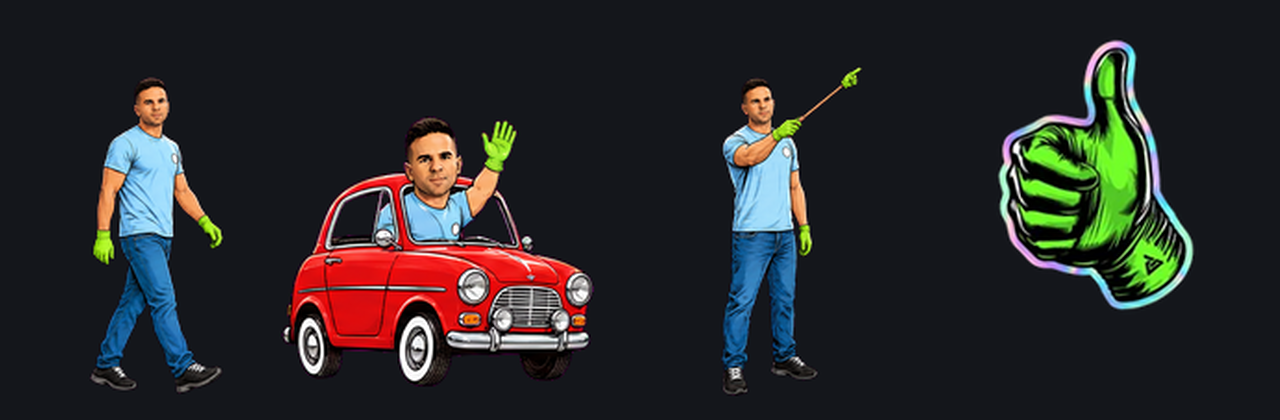
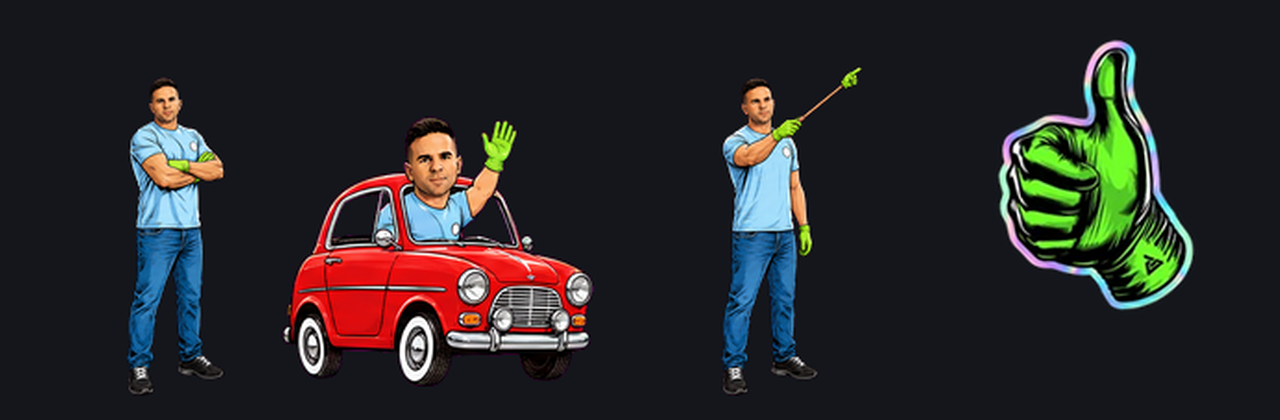
fix: reposo más tranquilo para Ángel y el guante
Petdex repite el reposo cada ~1,1 s y el paseo resultaba agotador.
Ángel vuelve a los brazos cruzados (respira, parpadea y se balancea
unos píxeles) y el guante se mece suavemente. El resto de
animaciones (coche, OK, mano, puntero) no cambia.

Changed region(s): [[0.0625, 0.1857, 0.1875, 0.9595]]

diff --git a/tools/procesar_tiras.py b/tools/procesar_tiras.py
@@ -53,7 +53,7 @@ ROW_REF: dict[str, tuple[int | None, float]] = {
 
 # Tira de origen de cada fila (sin extensión). Por defecto "tira-<estado>".
 ROW_SOURCE: dict[str, str] = {
-    "idle": "tira-pasear",           # paseo de ida y vuelta (ver WALK_PATH)
+    "idle": "tira-idle",             # brazos cruzados, respira y parpadea (ver IDLE_PATH)
     "running-right": "tira-coche",   # va en su coche rojo
     "jumping": "tira-ok",            # «todo OK»: seña de OK, pulgares arriba y saltito
     "waiting": "tira-levantar-mano",
@@ -63,11 +63,12 @@ ROW_SOURCE: dict[str, str] = {
 # Filas que no son una persona de pie (el coche): se escalan para caber en la celda.
 ROW_FIT: dict[str, tuple[int, int]] = {"running-right": (CELL_W - 8, 150)}
 
-# Paseo en reposo: (pose de la tira, desplazamiento x en px, mirando a la izquierda).
-# Va a la derecha en 3 pasos, se gira y vuelve en 2; el bucle cierra en el frame 0.
-WALK_PATH: tuple[tuple[int, int, bool], ...] = (
-    (0, -36, False), (1, -12, False), (2, 12, False),
-    (3, 36, True), (4, 12, True), (5, -12, True),
+# Reposo: (pose de la tira, desplazamiento x en px, espejo). Petdex repite esta fila
+# en bucle cada ~1,1 s, así que el movimiento es un balanceo suave de pocos píxeles
+# que vuelve a su sitio; la pose 3 de la tira es el parpadeo.
+IDLE_PATH: tuple[tuple[int, int, bool], ...] = (
+    (0, 0, False), (1, 1, False), (2, 3, False),
+    (3, 4, False), (4, 3, False), (5, 1, False),
 )
 
 
@@ -248,7 +249,7 @@ def build(tiras: Path, out: Path, measure: bool) -> dict:
                 print(state, "escala=%.4f" % scale, "alturas=", [p.height for p in poses],
                       "anchos=", [p.rgba.width for p in poses])
             row_cells, report[state] = [], []
-            plan = WALK_PATH if state == "idle" else tuple((i, 0, False) for i in range(frames))
+            plan = IDLE_PATH if state == "idle" else tuple((i, 0, False) for i in range(frames))
             for i, (src, dx, flip) in enumerate(plan):
                 cell, bbox, clipped = place(poses[src], scale, ground, dx, flip)
                 row_cells.append(cell)

diff --git a/tools/generar_atlas.py b/tools/generar_atlas.py
@@ -54,23 +54,20 @@ class Pose:
     bright: float = 1.0      # brillo (1 = original)
 
 
-IDLE_PATH: tuple[tuple[int, int], ...] = (
-    (-36, 1), (-12, 1), (12, 1), (36, -1), (12, -1), (-12, -1),
-)  # (desplazamiento x, dirección): va a la derecha, se gira y vuelve
-
-
 def poses_idle(n: int) -> list[Pose]:
-    """Paseo de ida y vuelta a saltitos, inclinado hacia donde va."""
+    """Vaivén suave: respira, se mece unos grados y se desliza unos píxeles.
+
+    Petdex repite esta fila cada ~1,1 s, así que el movimiento es pequeño y vuelve a su sitio.
+    """
     poses = []
-    for i, (dx, direction) in enumerate(IDLE_PATH[:n]):
-        landing = i in (0, 3)  # apoya en los extremos antes de seguir o girarse
+    for i in range(n):
+        t = 2 * math.pi * i / n
         poses.append(
             Pose(
-                sx=1.05 if landing else 0.98,
-                sy=0.94 if landing else 1.03,
-                angle=-7 * direction,
-                dx=dx,
-                dy=0 if landing else -10,
+                sx=1 - 0.012 * math.sin(t),
+                sy=1 + 0.025 * math.sin(t),
+                angle=3 * math.sin(t),
+                dx=3 * math.sin(t),
             )
         )
     return poses

diff --git a/README.md b/README.md
@@ -22,7 +22,7 @@
 
 | | **Ángel Gaitán** | **Guante Verde** |
 | --- | :---: | :---: |
-| Reposo: pasea | ![Ángel pasea de un lado a otro](preview/angel-gaitan/idle.gif) | ![El guante pasea a saltitos](preview/guante-verde/idle.gif) |
+| Reposo | ![Ángel con los brazos cruzados, respira y se balancea](preview/angel-gaitan/idle.gif) | ![El guante se mece](preview/guante-verde/idle.gif) |
 | La arrastras | ![Ángel conduce su coche rojo](preview/angel-gaitan/running-right.gif) | ![El guante da saltitos](preview/guante-verde/running-right.gif) |
 | Todo OK | ![Ángel hace la seña de OK y levanta los pulgares](preview/angel-gaitan/jumping.gif) | ![El guante salta](preview/guante-verde/jumping.gif) |
 | Revisando | ![Ángel señala con su puntero de guante verde](preview/angel-gaitan/review.gif) | ![El guante se inclina](preview/guante-verde/review.gif) |
@@ -75,7 +75,7 @@ foreach ($dest in "$env:USERPROFILE\.petdex\pets", "$env:USERPROFILE\.codex\pets
 
 | Estado | Cuándo sale | Ángel Gaitán | Guante Verde |
 | --- | --- | --- | --- |
-| `idle` | Sin actividad | Pasea de un lado a otro y se da la vuelta | Pasea a saltitos de lado a lado |
+| `idle` | Sin actividad | Brazos cruzados: respira, parpadea y se balancea un poco | Se mece suavemente |
 | `running-right` / `running-left` | La arrastras | Conduce su coche rojo clásico y saluda por la ventanilla | Da saltitos inclinado |
 | `waving` | Saludo o aviso | Saluda con el guante | Se mece |
 | `jumping` | Tarea terminada bien | «Todo OK»: seña de OK con guiño, doble pulgar arriba y saltito | Salta |
